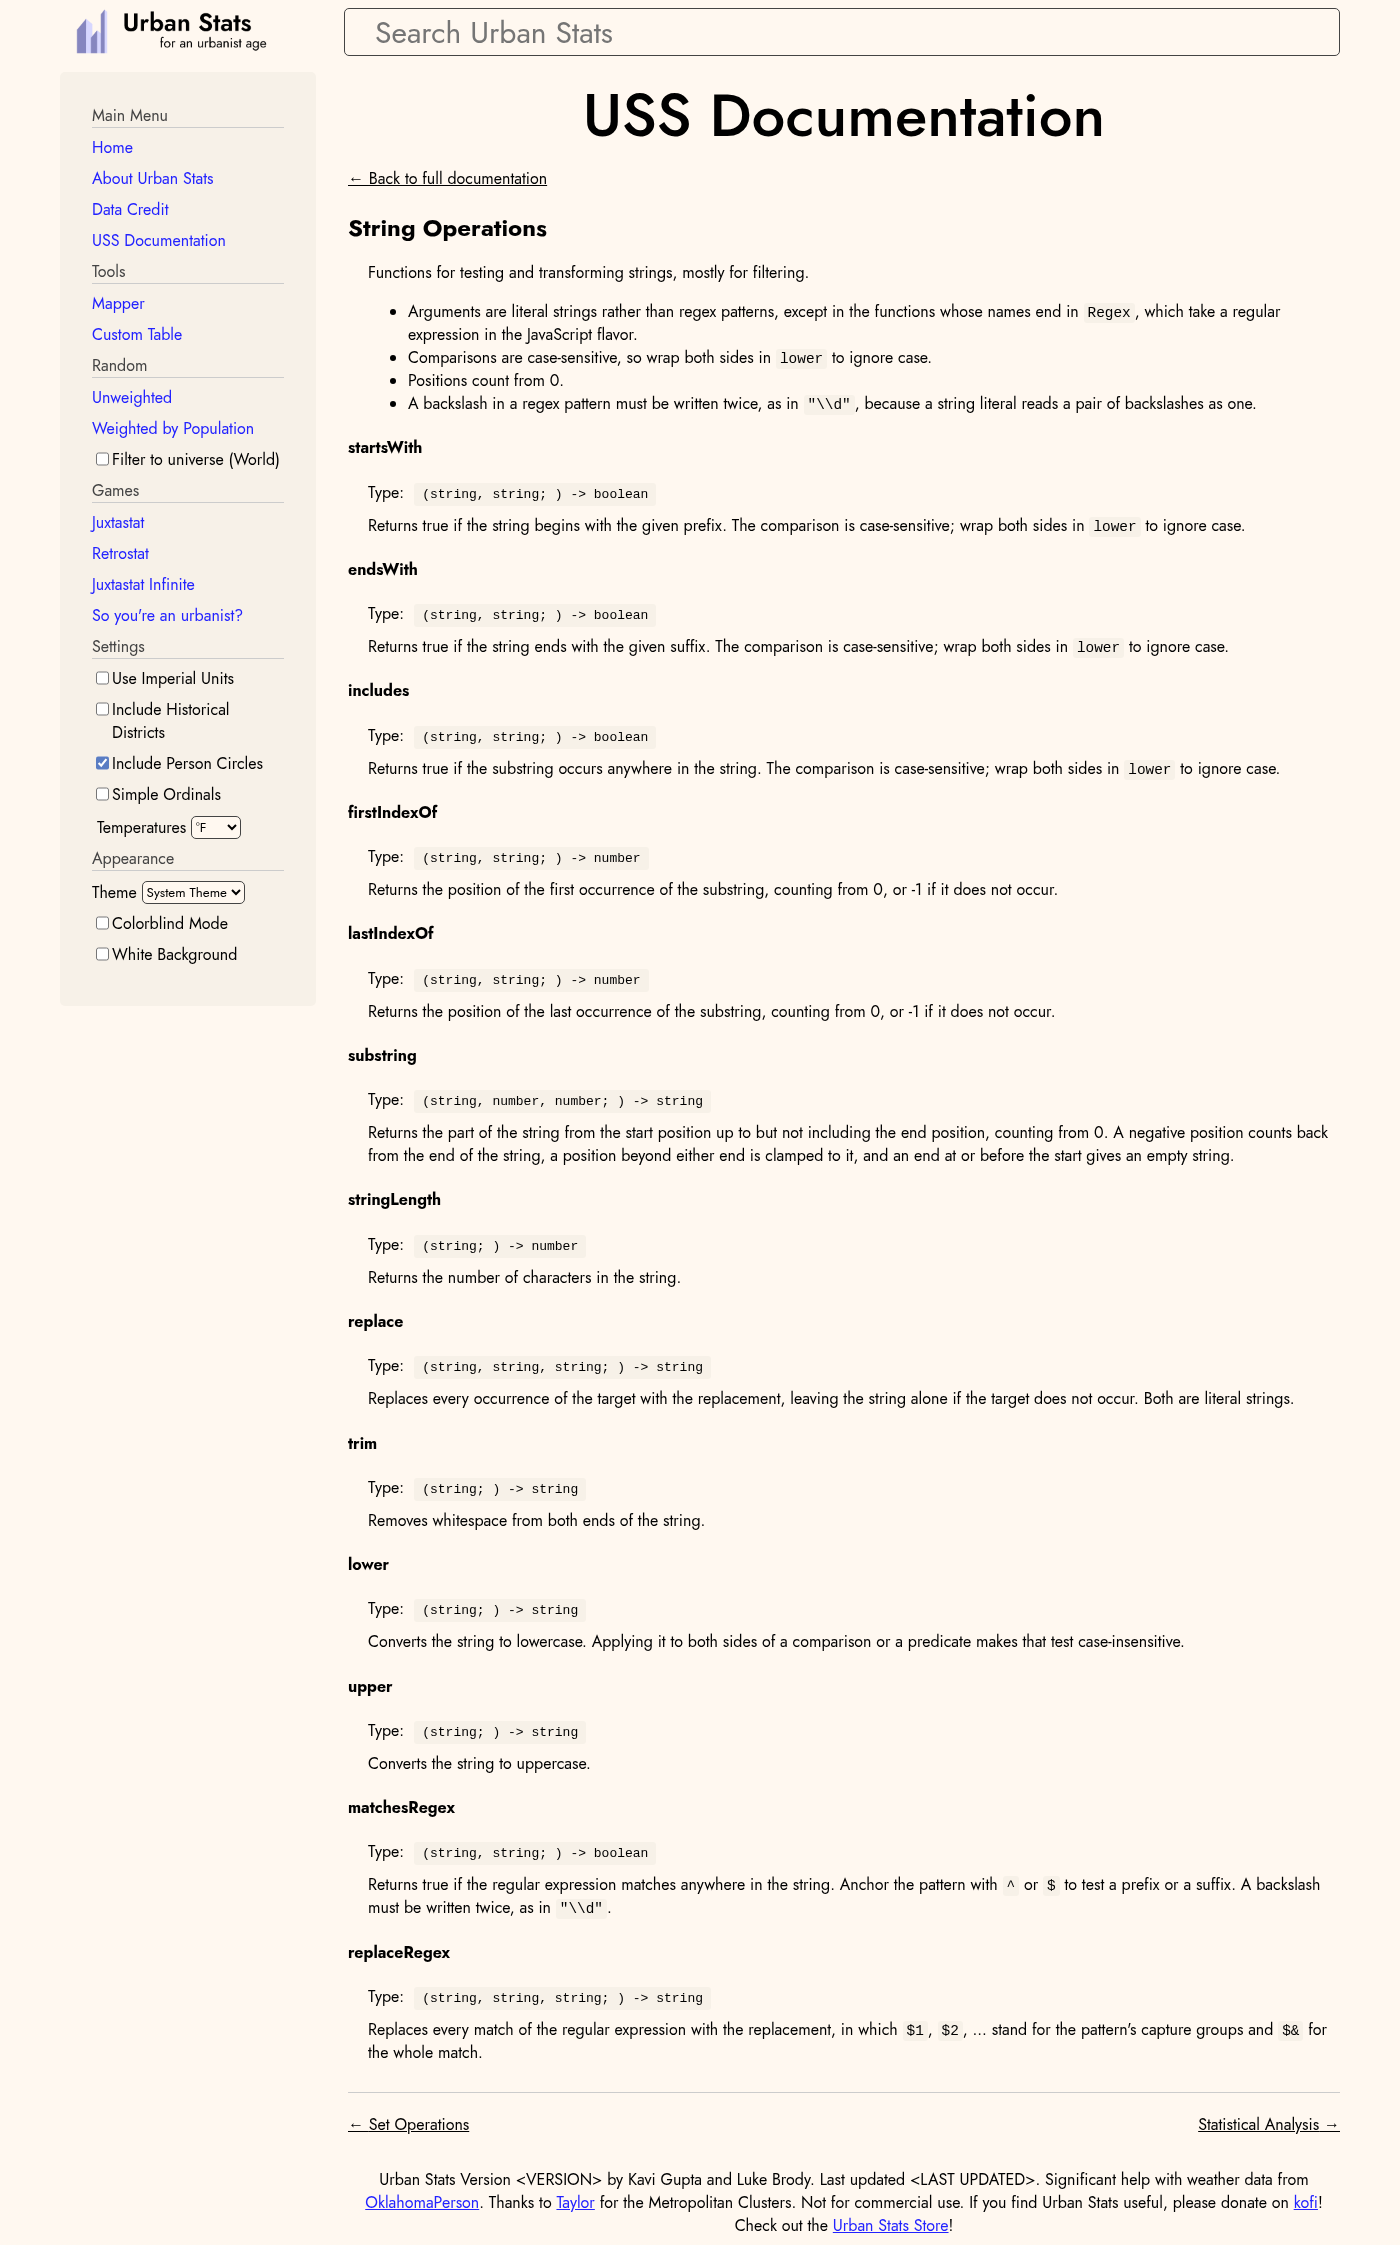
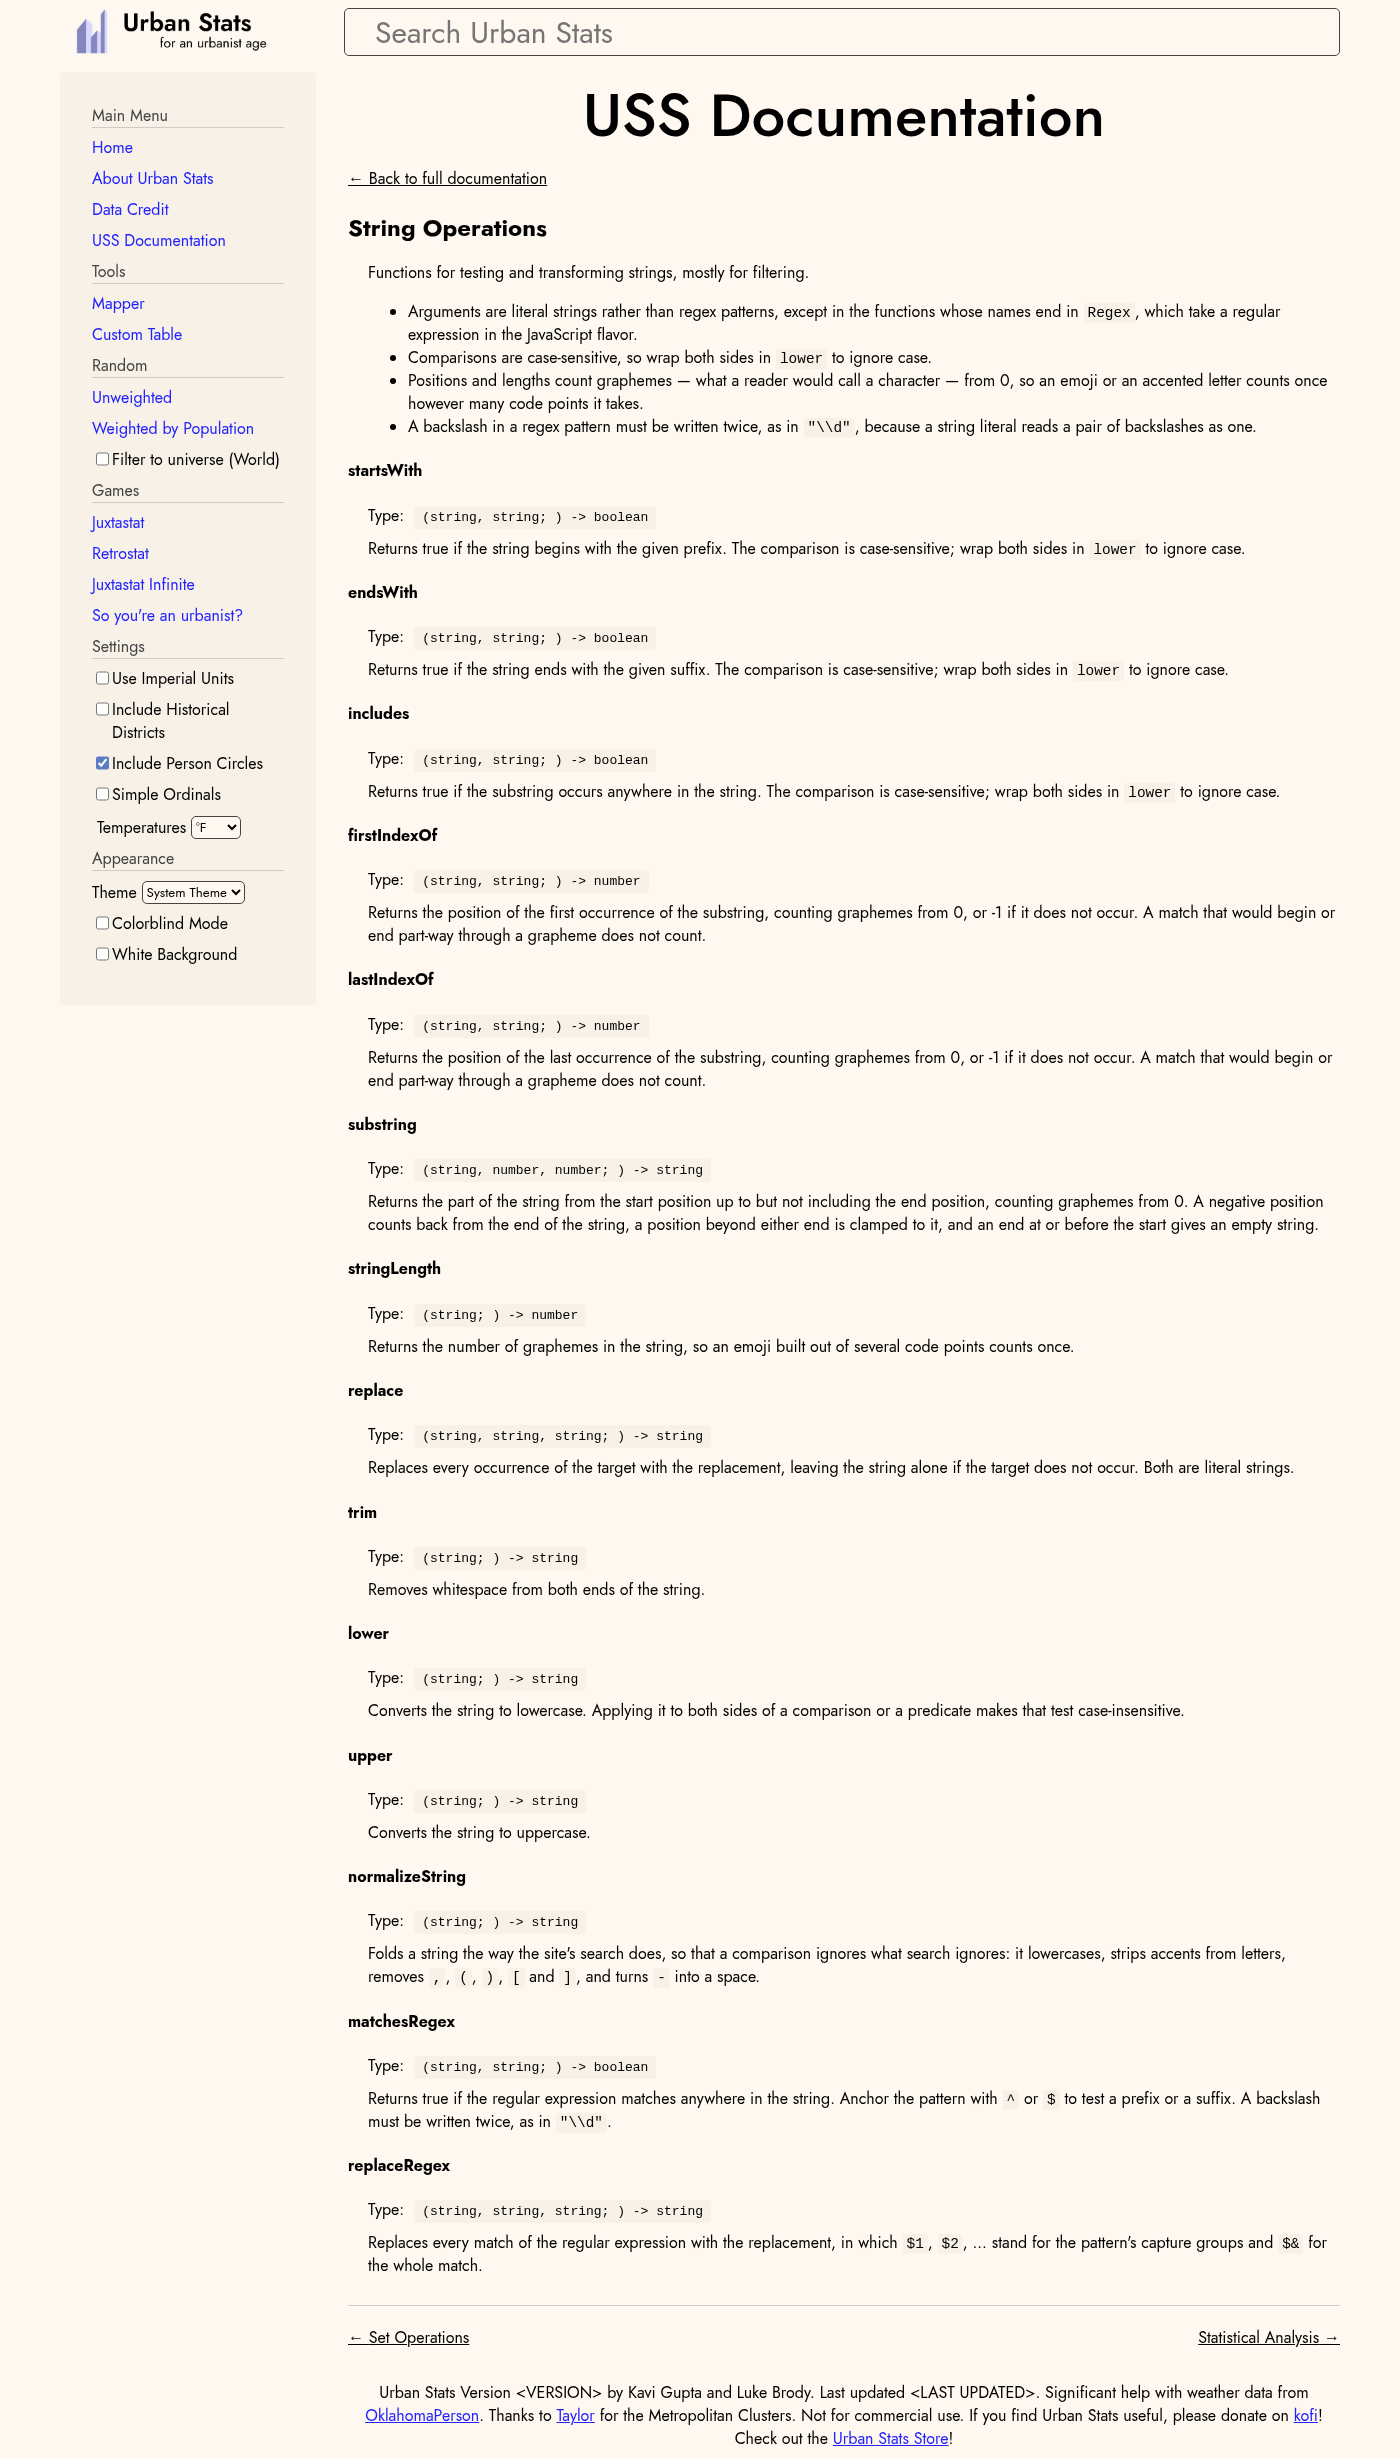
Count graphemes, not UTF-16 units, and add normalizeString
`stringLength("👨👩👧")` was 8 and `substring` could cut a family emoji in half,
because JavaScript strings are indexed in UTF-16 code units and a grapheme —
what a reader calls a character — is made of as many code points as it needs.
`Intl.Segmenter` gives the boundaries, and every position and length in the API
is now a grapheme index.

The predicates go with them, or the two halves of the API would disagree:
`endsWith("café", "e")` where the accent is a combining mark is false, the same
as `firstIndexOf` returning -1 for it, rather than true because the code units
happen to line up. They keep their fast path — a code-unit match has to succeed
before anything is segmented, so a filter that rejects most names never pays for
the boundaries.

`normalizeString` folds a string the way search does — lowercase, accents
stripped, `,()[]` removed, `-` turned into a space — so a filter can match a name
the way the search box would. That is `normalize`, moved out of `search.ts` into
`utils/normalize-string.ts`: importing it where it was would have pulled `idb`,
the protobuf loader and the statistic index into the script worker's bundle.

diff --git a/react/src/urban-stats-script/constants/string-ops.ts b/react/src/urban-stats-script/constants/string-ops.ts
@@ -1,5 +1,6 @@
 import { HumanReadableName } from '../../utils/human-readable-element'
 import { hre } from '../../utils/human-readable-template'
+import { normalize } from '../../utils/normalize-string'
 import { Context } from '../context'
 import { USSRawValue, USSValue } from '../types-values'
 
@@ -28,6 +29,45 @@ function documented(
     }] satisfies [string, USSValue]
 }
 
+const segmenter = new Intl.Segmenter(undefined, { granularity: 'grapheme' })
+
+/** Code-unit offsets where each grapheme begins, ending with the string's length. */
+function graphemeStarts(value: string): number[] {
+    const starts: number[] = []
+    for (const { index } of segmenter.segment(value)) {
+        starts.push(index)
+    }
+    starts.push(value.length)
+    return starts
+}
+
+/** A match counts only where it begins and ends on a grapheme boundary. */
+function graphemeIndexOf(value: string, needle: string, last: boolean): number {
+    const starts = graphemeStarts(value)
+    if (needle === '') {
+        return last ? starts.length - 1 : 0
+    }
+    const boundaries = new Set(starts)
+    let found = -1
+    for (let i = 0; i < starts.length - 1; i++) {
+        if (value.startsWith(needle, starts[i]) && boundaries.has(starts[i] + needle.length)) {
+            if (!last) {
+                return i
+            }
+            found = i
+        }
+    }
+    return found
+}
+
+function graphemeIndex(position: number, count: number): number {
+    const index = Math.trunc(position)
+    if (Number.isNaN(index)) {
+        return 0
+    }
+    return Math.min(Math.max(index < 0 ? count + index : index, 0), count)
+}
+
 /** Broadcasting calls the function once per element, almost always with the same pattern. */
 const regexCache = new Map<string, RegExp>()
 
@@ -46,26 +86,37 @@ function compilePattern(pattern: string, flags: string): RegExp {
 
 export const stringConstants: [string, USSValue][] = [
     documented('startsWith', ['string', 'string'], 'boolean', (posArgs) => {
-        return (posArgs[0] as string).startsWith(posArgs[1] as string)
+        const value = posArgs[0] as string
+        const prefix = posArgs[1] as string
+        return value.startsWith(prefix) && new Set(graphemeStarts(value)).has(prefix.length)
     }, 'starts with', hre`Returns true if the string begins with the given prefix. The comparison is case-sensitive; wrap both sides in \`lower\` to ignore case.`),
     documented('endsWith', ['string', 'string'], 'boolean', (posArgs) => {
-        return (posArgs[0] as string).endsWith(posArgs[1] as string)
+        const value = posArgs[0] as string
+        const suffix = posArgs[1] as string
+        return value.endsWith(suffix) && new Set(graphemeStarts(value)).has(value.length - suffix.length)
     }, 'ends with', hre`Returns true if the string ends with the given suffix. The comparison is case-sensitive; wrap both sides in \`lower\` to ignore case.`),
     documented('includes', ['string', 'string'], 'boolean', (posArgs) => {
-        return (posArgs[0] as string).includes(posArgs[1] as string)
+        const value = posArgs[0] as string
+        const needle = posArgs[1] as string
+        return value.includes(needle) && graphemeIndexOf(value, needle, false) >= 0
     }, 'includes', hre`Returns true if the substring occurs anywhere in the string. The comparison is case-sensitive; wrap both sides in \`lower\` to ignore case.`),
     documented('firstIndexOf', ['string', 'string'], 'number', (posArgs) => {
-        return (posArgs[0] as string).indexOf(posArgs[1] as string)
-    }, 'first index of', 'Returns the position of the first occurrence of the substring, counting from 0, or -1 if it does not occur.'),
+        return graphemeIndexOf(posArgs[0] as string, posArgs[1] as string, false)
+    }, 'first index of', 'Returns the position of the first occurrence of the substring, counting graphemes from 0, or -1 if it does not occur. A match that would begin or end part-way through a grapheme does not count.'),
     documented('lastIndexOf', ['string', 'string'], 'number', (posArgs) => {
-        return (posArgs[0] as string).lastIndexOf(posArgs[1] as string)
-    }, 'last index of', 'Returns the position of the last occurrence of the substring, counting from 0, or -1 if it does not occur.'),
+        return graphemeIndexOf(posArgs[0] as string, posArgs[1] as string, true)
+    }, 'last index of', 'Returns the position of the last occurrence of the substring, counting graphemes from 0, or -1 if it does not occur. A match that would begin or end part-way through a grapheme does not count.'),
     documented('substring', ['string', 'number', 'number'], 'string', (posArgs) => {
-        return (posArgs[0] as string).slice(posArgs[1] as number, posArgs[2] as number)
-    }, 'substring', 'Returns the part of the string from the start position up to but not including the end position, counting from 0. A negative position counts back from the end of the string, a position beyond either end is clamped to it, and an end at or before the start gives an empty string.'),
+        const value = posArgs[0] as string
+        const starts = graphemeStarts(value)
+        const count = starts.length - 1
+        const from = graphemeIndex(posArgs[1] as number, count)
+        const to = graphemeIndex(posArgs[2] as number, count)
+        return to <= from ? '' : value.slice(starts[from], starts[to])
+    }, 'substring', 'Returns the part of the string from the start position up to but not including the end position, counting graphemes from 0. A negative position counts back from the end of the string, a position beyond either end is clamped to it, and an end at or before the start gives an empty string.'),
     documented('stringLength', ['string'], 'number', (posArgs) => {
-        return (posArgs[0] as string).length
-    }, 'string length', 'Returns the number of characters in the string.'),
+        return graphemeStarts(posArgs[0] as string).length - 1
+    }, 'string length', 'Returns the number of graphemes in the string, so an emoji built out of several code points counts once.'),
     documented('replace', ['string', 'string', 'string'], 'string', (posArgs) => {
         // replaceAll reads $& and friends in the replacement even when searching for a literal
         const replacement = (posArgs[2] as string).replaceAll('$', '$$$$')
@@ -80,6 +131,9 @@ export const stringConstants: [string, USSValue][] = [
     documented('upper', ['string'], 'string', (posArgs) => {
         return (posArgs[0] as string).toUpperCase()
     }, 'uppercase', 'Converts the string to uppercase.'),
+    documented('normalizeString', ['string'], 'string', (posArgs) => {
+        return normalize(posArgs[0] as string)
+    }, 'normalize', hre`Folds a string the way the site\'s search does, so that a comparison ignores what search ignores: it lowercases, strips accents from letters, removes \`,\`, \`(\`, \`)\`, \`[\` and \`]\`, and turns \`-\` into a space.`),
     documented('matchesRegex', ['string', 'string'], 'boolean', (posArgs) => {
         return compilePattern(posArgs[1] as string, '').test(posArgs[0] as string)
     }, 'matches regex', hre`Returns true if the regular expression matches anywhere in the string. Anchor the pattern with \`^\` or \`$\` to test a prefix or a suffix. A backslash must be written twice, as in \`"\\\\d"\`.`),

diff --git a/react/unit/urban-stats-script-string-ops.test.ts b/react/unit/urban-stats-script-string-ops.test.ts
@@ -61,6 +61,23 @@ void test('replace and trim', (): void => {
     assert.deepStrictEqual(evaluateExpr('trim("  San Diego \\t")'), undocValue('San Diego', stringType))
 })
 
+void test('positions and lengths count graphemes, not UTF-16 units', (): void => {
+    // a family emoji is one grapheme made of seven code points
+    const family = 'a\\uD83D\\uDC68\\u200D\\uD83D\\uDC69\\u200D\\uD83D\\uDC67b'
+    assert.deepStrictEqual(evaluateExpr(`stringLength("${family}")`), undocValue(3, numType))
+    assert.deepStrictEqual(evaluateExpr(`substring("${family}", 1, 2)`), undocValue('\u{1F468}\u{200D}\u{1F469}\u{200D}\u{1F467}', stringType))
+    assert.deepStrictEqual(evaluateExpr(`firstIndexOf("${family}", "b")`), undocValue(2, numType))
+    // a decomposed e-acute is one grapheme, so nothing matches half of it
+    assert.deepStrictEqual(evaluateExpr('stringLength("cafe\\u0301")'), undocValue(4, numType))
+    assert.deepStrictEqual(evaluateExpr('endsWith("cafe\\u0301", "e")'), undocValue(false, boolType))
+    assert.deepStrictEqual(evaluateExpr('includes("cafe\\u0301", "e")'), undocValue(false, boolType))
+})
+
+void test('normalizeString folds a name the way search does', (): void => {
+    assert.deepStrictEqual(evaluateExpr('normalizeString("Saint-Denis, \\u00CEle-de-France")'), undocValue('saint denis ile de france', stringType))
+    assert.deepStrictEqual(evaluateExpr('normalizeString("Washington [DC] (USA)")'), undocValue('washington dc usa', stringType))
+})
+
 void test('string operations broadcast over a vector of strings', (): void => {
     assert.deepStrictEqual(
         evaluateExpr('endsWith(["San Diego, CA", "Reno, NV"], ", CA")'),

diff --git a/react/src/search.ts b/react/src/search.ts
@@ -8,6 +8,7 @@ import { DefaultMap } from './utils/DefaultMap'
 import { bitap, bitapPerformance, bitCount, Haystack, toHaystack, toNeedle, toSignature } from './utils/bitap'
 import { makeDebugLogger } from './utils/debug-logging'
 import { assert } from './utils/defensive'
+import { normalize } from './utils/normalize-string'
 import { ISearchIndexMetadata } from './utils/protos'
 import { isAllowedToBeShown, ShowGeographySettings } from './utils/restricted-types'
 import { concatenate } from './utils/typed-array-concat'
@@ -24,17 +25,6 @@ const debug = makeDebugLogger('search')
 const debugPerformance = makeDebugLogger('searchPerformance')
 
 export const simulateSlowSearchDelayMs: number | undefined = undefined
-
-export function normalize(a: string, handlePunctuation = true): string {
-    a = a.toLowerCase()
-    a = a.normalize('NFD')
-    a = a.replace(/[\u0300-\u036f]/g, '')
-    if (handlePunctuation) {
-        a = a.replace(/[,\(\)\[\]]/g, '')
-        a = a.replaceAll('-', ' ')
-    }
-    return a
-}
 
 type Entry = {
     priority: number

diff --git a/react/src/uss-documentation.tsx b/react/src/uss-documentation.tsx
@@ -824,7 +824,10 @@ function getCategoryDescription(category: ConstantCategory): ReactNode {
                             {' '}
                             to ignore case.
                         </li>
-                        <li>Positions count from 0.</li>
+                        <li>
+                            Positions and lengths count graphemes — what a reader would call a character — from 0, so an
+                            emoji or an accented letter counts once however many code points it takes.
+                        </li>
                         <li>
                             A backslash in a regex pattern must be written twice, as in
                             {' '}

diff --git a/react/src/syau/load.ts b/react/src/syau/load.ts
@@ -3,8 +3,8 @@ import syau_suffixes from '../data/syau_suffixes'
 import { loadProtobuf, loadStatisticsPage } from '../load_json'
 import { centroidsPath } from '../navigation/links'
 import { DataStatistic, Statistic, allGroups } from '../page_template/statistic-tree'
-import { normalize } from '../search'
 import { Universe } from '../universe'
+import { normalize } from '../utils/normalize-string'
 import { ICoordinate } from '../utils/protos'
 
 const populationStatcols: DataStatistic[] = allGroups

diff --git a/react/src/utils/normalize-string.ts b/react/src/utils/normalize-string.ts
@@ -1,0 +1,11 @@
+/** Folds away the differences search should ignore: case, accents, and punctuation. */
+export function normalize(a: string, handlePunctuation = true): string {
+    a = a.toLowerCase()
+    a = a.normalize('NFD')
+    a = a.replace(/[̀-ͯ]/g, '')
+    if (handlePunctuation) {
+        a = a.replace(/[,\(\)\[\]]/g, '')
+        a = a.replaceAll('-', ' ')
+    }
+    return a
+}

diff --git a/react/unit/urban-stats-script-constants.test.ts b/react/unit/urban-stats-script-constants.test.ts
@@ -162,6 +162,7 @@ void test('constant listing', (): void => {
                 'trim',
                 'lower',
                 'upper',
+                'normalizeString',
             ],
 
             '(any; ) -> number': [
